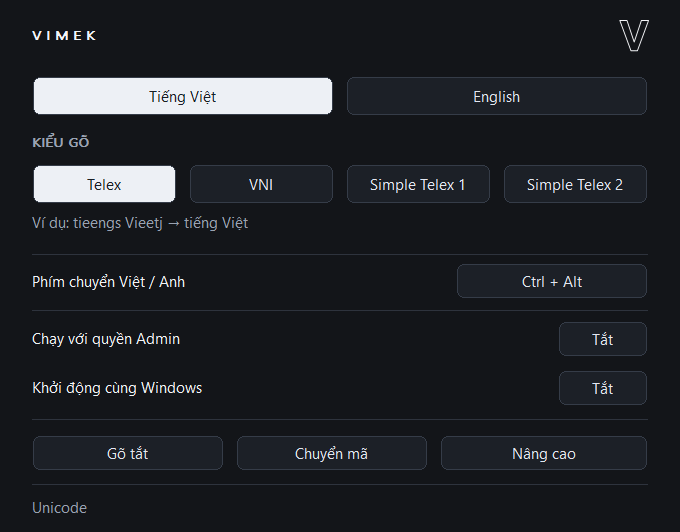
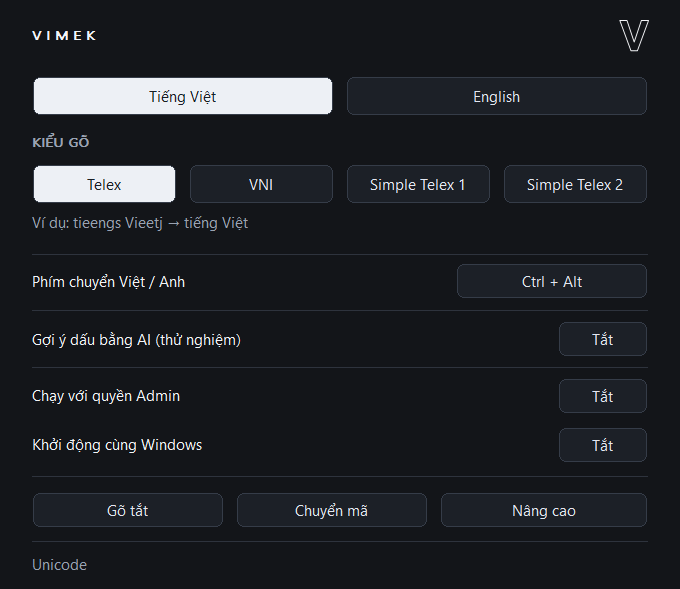
Website: new dashboard screenshot and AI suggestion mention

diff --git a/site/app.js b/site/app.js
@@ -32,7 +32,7 @@
       familiarSimple: "Familiar by feel.\nSimple by design.",
       typeYourWay: "Type your way.",
       typeYourWayBody:
-        "Telex, VNI, and two Simple Telex variants. Keep the rhythm you've always used.",
+        "Telex, VNI, and two Simple Telex variants. Keep the rhythm you've always used. On Windows, experimental AI suggestions can add the accents for you.",
       oneEasySwitch: "One easy switch.",
       oneEasySwitchBody:
         "Hold Ctrl, tap Alt. Switch between Vietnamese and English as often as you need, with an optional system sound.",
@@ -99,7 +99,7 @@
       familiarSimple: "Quen thuộc khi gõ.\nTinh gọn khi dùng.",
       typeYourWay: "Gõ theo cách của bạn.",
       typeYourWayBody:
-        "Telex, VNI và hai biến thể Simple Telex. Giữ nguyên thói quen gõ bạn đã quen thuộc.",
+        "Telex, VNI và hai biến thể Simple Telex. Giữ nguyên thói quen gõ bạn đã quen thuộc. Trên Windows có thêm gợi ý dấu bằng AI (thử nghiệm).",
       oneEasySwitch: "Chuyển đổi thật nhẹ nhàng.",
       oneEasySwitchBody:
         "Giữ Ctrl, bấm Alt. Chuyển Việt/Anh nhiều lần khi cần, kèm âm thanh hệ thống có thể tắt.",

diff --git a/site/index.html b/site/index.html
@@ -124,7 +124,7 @@
               class="app-screenshot"
               src="images/dashboard-light.png"
               width="680"
-              height="532"
+              height="589"
               alt="VIMEK control panel with input methods and Vietnamese/English switching"
               data-i18n-alt="screenshot"
             />
@@ -189,7 +189,8 @@
             <h3 data-i18n="typeYourWay">Type your way.</h3>
             <p data-i18n="typeYourWayBody">
               Telex, VNI, and two Simple Telex variants. Keep the rhythm you've
-              always used.
+              always used. On Windows, experimental AI suggestions can add the
+              accents for you.
             </p>
             <div class="feature-detail">
               <span>Telex</span><span>VNI</span><span>Simple Telex</span>
